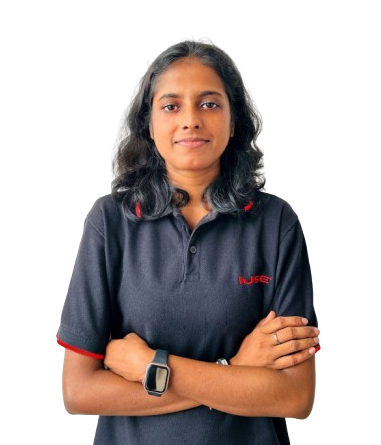
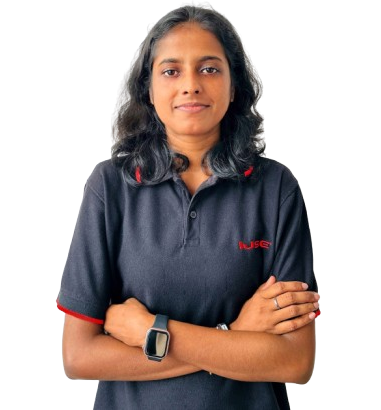
done

diff --git a/src/components/section/AboutSection.tsx b/src/components/section/AboutSection.tsx
@@ -55,7 +55,7 @@ const AboutSection: React.FC = () => {
             <img
               src={img}
               alt="dilini bhagya"
-              className="w-full h-160 object-cover rounded-lg bg-no-repeat "
+              className="w-full h-150 object-cover rounded-lg bg-no-repeat "
             />
           </div>
           <div className="md:col-span-2">
